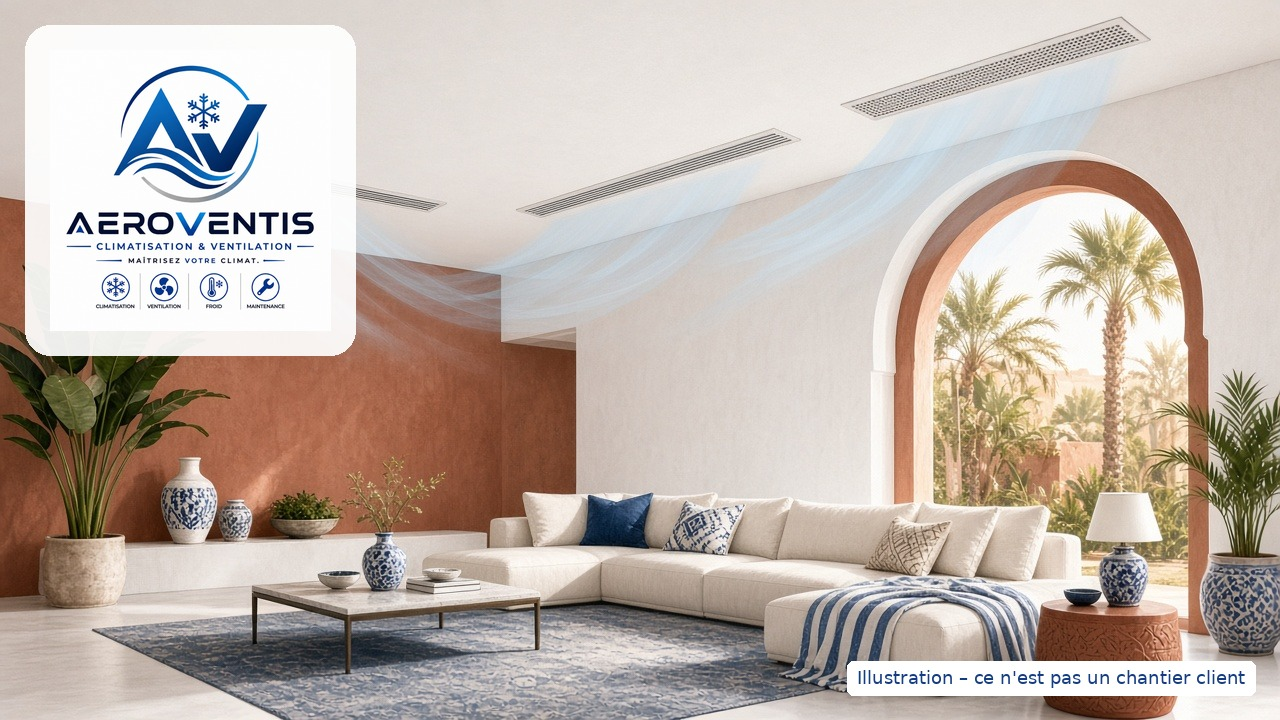
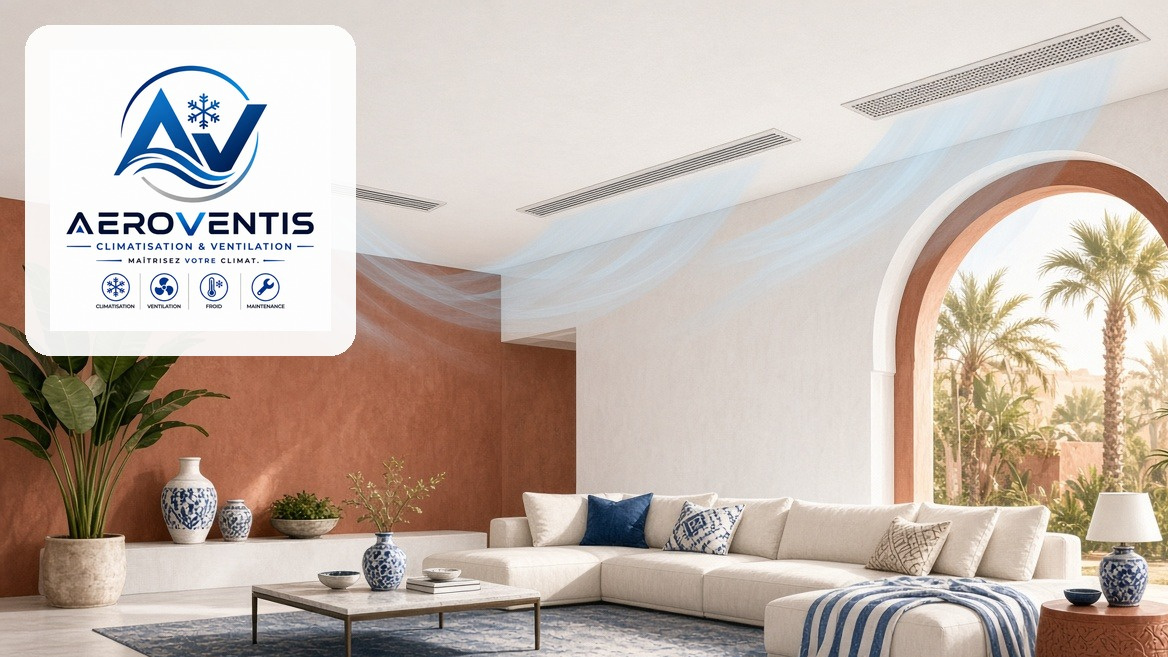
Remove the last Illustration marks from the photos and the réalisations line. (#17)
The desktop hero keeps its size and the phone number; the two blog photos drop the banner while staying 16:9.

diff --git a/src/components/LandingPage.tsx b/src/components/LandingPage.tsx
@@ -467,9 +467,6 @@ export function LandingPage({ contactQrDataUrl }: Props) {
         <section id="realisations" className="scroll-mt-36 border-t border-[#e6eef6] bg-[#f7f9fc] py-12 lg:py-20">
           <div className="mx-auto max-w-7xl px-4 sm:px-5 lg:px-8">
             <h2 className="text-center text-2xl font-semibold tracking-tight text-brand-navy md:text-3xl">{t("projectsTitle")}</h2>
-            <p className="mx-auto mt-3 max-w-2xl text-center text-sm leading-relaxed text-brand-navy/70">
-              {t("illustration")}
-            </p>
             <ul className="mt-8 grid grid-cols-2 gap-3 sm:grid-cols-3 lg:grid-cols-5">
               {realisationShots.map((shot) => (
                 <li key={shot.key} className={shot.key === "workRoof" ? "max-sm:col-span-2" : undefined}>
